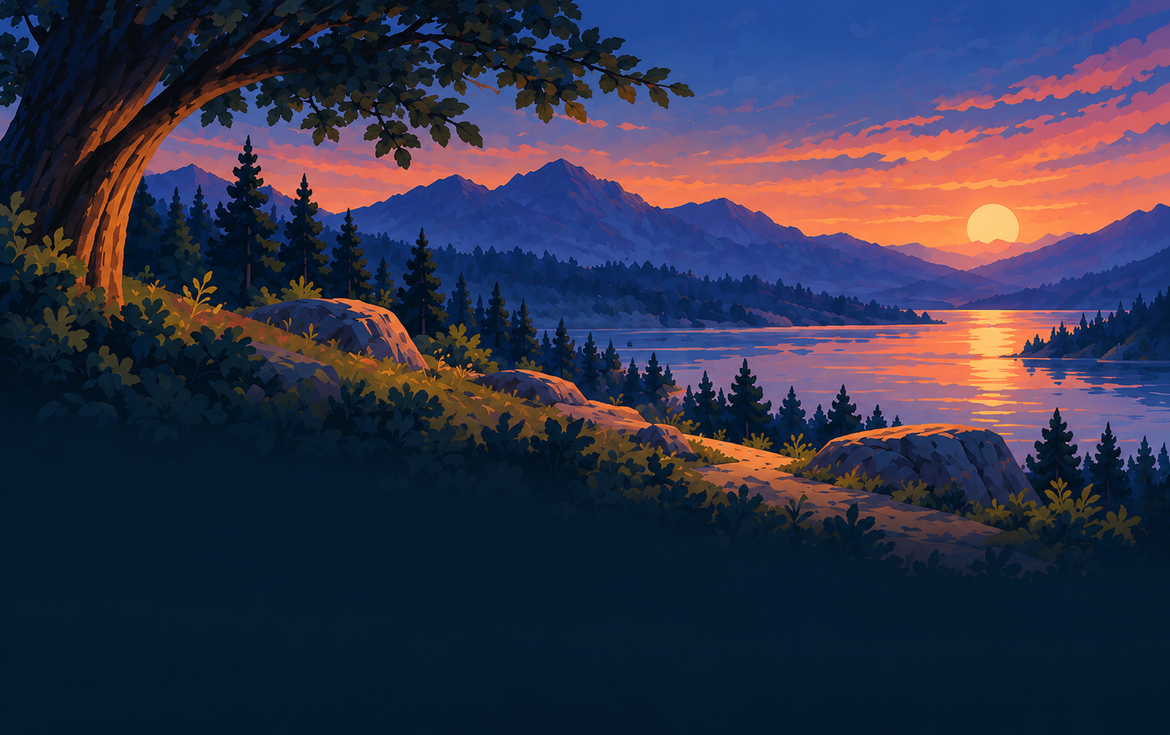
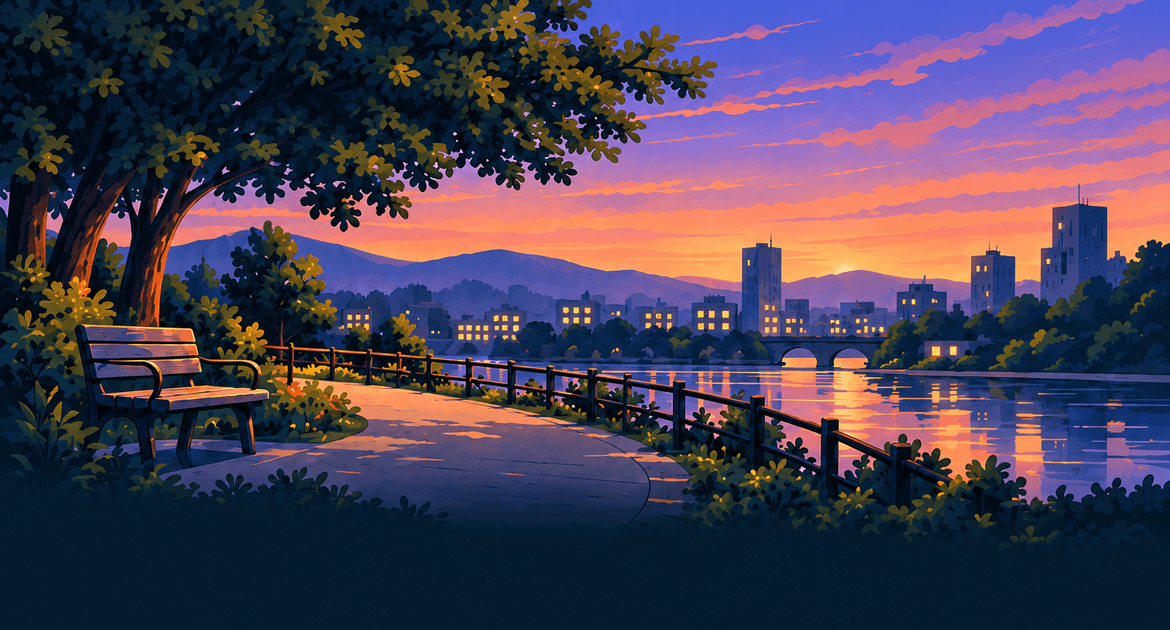
feat(mobile): apply city journal visuals
Authorship: agent-codex

diff --git a/apps/mobile/src/features/quests/quest-card.tsx b/apps/mobile/src/features/quests/quest-card.tsx
@@ -1,6 +1,6 @@
-import { Image, Text, View } from "react-native";
+import { Text, View } from "react-native";
 import Ionicons from "@expo/vector-icons/Ionicons";
-import { journalArt } from "../../shared/journal-art";
+import { QuestCardArtwork } from "./quest-card-artwork";
 import { Link } from "expo-router";
 import { questActions } from "./commands/quest-actions";
 import {
@@ -34,11 +34,12 @@ export function QuestCard({ item }: { item: OccurrenceView }) {
   return (
     <Card
       style={{
-        borderColor: creative ? "#9274B9" : colors.line,
-        gap: 6,
-        padding: 12,
+        borderColor: creative ? "#9274B9" : colors.gold,
+        gap: 8,
+        padding: 16,
       }}
     >
+      <QuestCardArtwork creative={creative} />
       <View
         style={{
           flexDirection: "row",
@@ -79,7 +80,7 @@ export function QuestCard({ item }: { item: OccurrenceView }) {
         {q.title}
       </Text>
       <View style={{ flexDirection: "row", gap: 8, alignItems: "center" }}>
-        <View style={{ flex: 1, gap: 8 }}>
+        <View style={{ flex: 1, gap: 10, minHeight: 62 }}>
           <Text
             style={[
               styles.muted,
@@ -98,12 +99,6 @@ export function QuestCard({ item }: { item: OccurrenceView }) {
               : ""}
           </Text>
         </View>
-        <Image
-          source={creative ? journalArt.sketchbook : journalArt.work}
-          accessible={false}
-          resizeMode="contain"
-          style={{ width: 80, height: 52 }}
-        />
       </View>
       {item.pendingCompletion && (
         <View
@@ -112,6 +107,7 @@ export function QuestCard({ item }: { item: OccurrenceView }) {
             borderColor: colors.line,
             borderRadius: 10,
             padding: 10,
+            backgroundColor: colors.card,
           }}
         >
           <Label style={styles.muted}>
@@ -133,19 +129,20 @@ export function QuestCard({ item }: { item: OccurrenceView }) {
             borderTopWidth: 1,
             borderTopColor: colors.line,
             fontWeight: "600",
+            backgroundColor: "rgba(9, 26, 41, 0.85)",
           },
         ]}
       >
         View quest & rewards
       </Link>
       {item.occurrence.lifecycle?.lockedLoss != null && (
-        <Label>
+        <Label style={{ backgroundColor: colors.card }}>
           Accepted loss: up to {item.occurrence.lifecycle.lockedLoss} category
           XP.
         </Label>
       )}
       {item.status === "Frozen" && (
-        <Label>
+        <Label style={{ backgroundColor: colors.card }}>
           Frozen: resume its category/account pause first. Stopped-series
           commitments can then be resumed in quest details.
         </Label>

diff --git a/apps/mobile/src/shared/journal-heading.tsx b/apps/mobile/src/shared/journal-heading.tsx
@@ -1,6 +1,7 @@
 import { ImageBackground, Text, View } from "react-native";
 import { useSafeAreaInsets } from "react-native-safe-area-context";
 import Ionicons from "@expo/vector-icons/Ionicons";
+import { Link } from "expo-router";
 import { journalArt } from "./journal-art";
 import { colors, styles } from "./ui";
 
@@ -8,7 +9,8 @@ import { colors, styles } from "./ui";
 export function JournalHeading({
   title,
   description,
-}: Readonly<{ title: string; description?: string }>) {
+  compact = false,
+}: Readonly<{ title: string; description?: string; compact?: boolean }>) {
   const insets = useSafeAreaInsets();
   return (
     <ImageBackground
@@ -18,10 +20,10 @@ export function JournalHeading({
       imageStyle={{ width: "100%", height: "100%" }}
       style={{
         marginHorizontal: -16,
-        paddingHorizontal: 26,
+        paddingHorizontal: 24,
         paddingTop: insets.top + 16,
         paddingBottom: 12,
-        minHeight: 200 + insets.top,
+        minHeight: (compact ? 178 : 220) + insets.top,
         justifyContent: "space-between",
       }}
     >
@@ -31,12 +33,30 @@ export function JournalHeading({
           size={32}
           color={colors.gold}
           accessible={false}
+          aria-hidden
         />
-        <Text style={[styles.subtitle, { fontSize: 24, flexShrink: 1 }]}>
+        <Text style={[styles.subtitle, { fontSize: 24, flex: 1 }]}>
           Pocket Quests
         </Text>
+        <Link
+          href="/(tabs)/profile"
+          accessibilityLabel="Settings and profile"
+          style={{
+            padding: 10,
+            minWidth: 48,
+            minHeight: 48,
+            color: colors.ink,
+          }}
+        >
+          <Ionicons
+            name="settings-outline"
+            size={26}
+            accessible={false}
+            aria-hidden
+          />
+        </Link>
       </View>
-      <View style={{ gap: 6, paddingTop: 78 }}>
+      <View style={{ gap: 6, paddingTop: compact ? 42 : 64 }}>
         <Text accessibilityRole="header" style={styles.title}>
           {title}
         </Text>

diff --git a/apps/mobile/src/features/quests/quest-board.tsx b/apps/mobile/src/features/quests/quest-board.tsx
@@ -1,8 +1,6 @@
 import { Page } from "../../session/session-page";
 import { QuestHistory, type QuestHistorySection } from "./quest-history";
 import { useMemo, useState } from "react";
-import { ThemeProvider } from "@honeydrunk/ui-native";
-import { pocketQuestsTheme } from "../../shared/theme";
 import { JournalHeading } from "../../shared/journal-heading";
 import { useAccountSnapshot } from "../../session/session";
 import { Button, Label } from "../../shared/ui";
@@ -24,13 +22,13 @@ export function QuestBoard() {
   );
   if (!state)
     return (
-      <Page header={<JournalHeading title="Your quests" />}>
+      <Page header={<JournalHeading title="Your quests" compact />}>
         <Label>Loading your quests.</Label>
       </Page>
     );
   if (state && !state.profile.onboardingComplete)
     return (
-      <Page header={<JournalHeading title="Your quests" />}>
+      <Page header={<JournalHeading title="Your quests" compact />}>
         <ProfileEditor />
       </Page>
     );
@@ -74,7 +72,7 @@ export function QuestBoard() {
   return (
     <QuestHistory
       sections={sections}
-      header={<JournalHeading title="Your quests" />}
+      header={<JournalHeading title="Your quests" compact />}
     >
       <QuestViewTabs<BoardView>
         options={boardViews}
@@ -103,21 +101,10 @@ export function QuestBoard() {
               onPress={() => setShowPast((shown) => !shown)}
             />
           )}
-          <ThemeProvider
-            theme={{
-              ...pocketQuestsTheme,
-              colors: {
-                ...pocketQuestsTheme.colors,
-                primary: "#F8794D",
-                onPrimary: "#172332",
-              },
-            }}
-          >
-            <Button
-              title="Choose another quest"
-              onPress={() => setSection("Available")}
-            />
-          </ThemeProvider>
+          <Button
+            title="Choose another quest"
+            onPress={() => setSection("Available")}
+          />
         </>
       )}
       {section !== "Available" && items.length === 0 && (

diff --git a/apps/mobile/src/features/quests/quest-card-artwork.tsx b/apps/mobile/src/features/quests/quest-card-artwork.tsx
@@ -1,0 +1,36 @@
+import { Image, View } from "react-native";
+import { journalArt } from "../../shared/journal-art";
+
+/** Bundled decorative scenery stays behind live labels, statuses and controls. */
+export function QuestCardArtwork({
+  creative,
+}: Readonly<{ creative: boolean }>) {
+  return (
+    <View
+      pointerEvents="none"
+      style={{
+        position: "absolute",
+        top: 0,
+        bottom: 0,
+        left: 0,
+        right: 0,
+        overflow: "hidden",
+        borderRadius: 14,
+      }}
+    >
+      <Image
+        testID="journal-quest-artwork"
+        source={creative ? journalArt.sketchScene : journalArt.workScene}
+        accessible={false}
+        aria-hidden
+        resizeMode="cover"
+        style={{
+          position: "absolute",
+          bottom: 0,
+          width: "100%",
+          aspectRatio: 2,
+        }}
+      />
+    </View>
+  );
+}

diff --git a/apps/mobile/src/features/progression/character-home.tsx b/apps/mobile/src/features/progression/character-home.tsx
@@ -2,7 +2,7 @@ import { Page } from "../../session/session-page";
 import { Text, View } from "react-native";
 import { Redirect } from "expo-router";
 import { useAccountSnapshot } from "../../session/session";
-import { Label, Card, styles } from "../../shared/ui";
+import { Label, Card, colors, styles } from "../../shared/ui";
 import { JournalHeading } from "../../shared/journal-heading";
 import { ProgressRow, CategoryProgress } from "./character-tracks";
 import { RankProgress } from "./rank-progress";
@@ -32,7 +32,10 @@ export function CharacterHome() {
         />
       }
     >
-      <Card testID="character-sheet" style={{ gap: 12, padding: 12 }}>
+      <Card
+        testID="character-sheet"
+        style={{ gap: 12, padding: 12, borderColor: colors.gold }}
+      >
         <View
           style={{
             flexDirection: "row",

diff --git a/apps/mobile/src/shared/journal-art.ts b/apps/mobile/src/shared/journal-art.ts
@@ -6,5 +6,7 @@ export const journalArt = {
   books: require("../../assets/journal/books.png"),
   sketchbook: require("../../assets/journal/sketchbook.png"),
   work: require("../../assets/journal/work.png"),
+  workScene: require("../../assets/journal/work-scene.png"),
+  sketchScene: require("../../assets/journal/sketch-scene.png"),
   shield: require("../../assets/journal/rank-shield.png"),
 };

diff --git a/apps/mobile/assets/journal/README.md b/apps/mobile/assets/journal/README.md
@@ -2,16 +2,19 @@
 
 Approved Pocket Quests adventure-journal direction, October 18, 2026. Generated with OpenAI Image Gen using the approved Home and quest-card mockups as references. These are decorative bundled assets; no account data, UI labels, progress or controls are baked into them.
 
-- landscape.png: dusk lake, shared scrolling header and subdued rank background.
+- landscape.png: contemporary riverside bench and city at dusk, shared scrolling header and subdued rank background.
 - traveler.png: illustrative character portrait, not a user photo.
 - compass.png, books.png, sketchbook.png: category/attribute/skill artwork.
-- work.png and sketchbook.png: quest-card spot illustrations.
+- work-scene.png and sketch-scene.png: wide illustrated quest-card scenes with dark space for live content.
+- work.png: retained original work spot illustration; sketchbook.png remains the Skills artwork.
 - rank-shield.png: blank shield; the current rank is native text.
 
 Libre Baskerville is bundled separately under ../fonts with its SIL Open Font License. The Ionicons font is supplied by the SDK-compatible @expo/vector-icons package. Font loading uses expo-font at runtime; it was already present transitively in the existing SDK. No config-plugin or provider change is required for runtime loading.
 
-Runtime PNGs are resampled from the approved originals into Metro's 1x, 2x and 3x density variants. The imports keep the unsuffixed filenames; Metro selects the appropriate density. Base dimensions are 390x245 for the landscape, 112x112 for the portrait, 80x100 for the shield, 80x80 for books/compass, and 80x67 for sketchbook/work. All density variants have exactly proportional dimensions. The larger landscape supports the full-width header; spot art remains sized for the 72x48 and 80x52 controls.
+Runtime PNGs are resampled from the approved originals into Metro's 1x, 2x and 3x density variants. The imports keep the unsuffixed filenames; Metro selects the appropriate density. Base dimensions are 390x210 for the landscape, 112x112 for the portrait, 360x180 for card scenes, 80x100 for the shield, 80x80 for books/compass, and 80x67 for sketchbook/work. All density variants have exactly proportional dimensions. The landscape fills the header behind both the title and settings gear. Card art preserves its 2:1 aspect ratio at the bottom of dynamically sized cards.
 
-The originals remain recoverable from Git commit `8fee082f129d7c712d01e3bf78864f5ebc7d17c7`; they are no longer bundled. Production variants were exported with Sharp's Lanczos3 resampling and PNG compression level 9, retaining alpha and the approved composition. The total raster payload, including every density, fell from 12,340,827 to 3,373,561 bytes (73% smaller). At 3x, decoded RGBA pixel storage is at most 0.43 MiB for the portrait, 0.28 MiB for the shield and 0.22 MiB for each spot illustration, compared with roughly 6 MiB per original. These are pixel-buffer estimates, not measured device memory.
+The first journal originals remain recoverable from Git commit `8fee082f129d7c712d01e3bf78864f5ebc7d17c7`; they are no longer bundled. The approved city revision uses Image Gen reference-guided assets, with source SHA-256 hashes, runtime dimensions and byte sizes in [the city asset manifest](../../../../docs/design/city-journal-20261018/asset-manifest.json). Card edit prompts are retained beside the manifest. Landscape generation requested clean editorial bench/river/city scenery, canopy and dark navy fade; portrait generation requested an everyday traveler in a navy jacket with the same city palette. Neither contains UI text.
+
+The city assets use Sharp Lanczos3 resizing and PNG compression level 9 with a 256-color palette. The complete journal raster set now has 27 files totaling 2,218,230 bytes, versus 3,373,561 before this revision, despite adding two card scenes. At 3x, decoded RGBA storage is approximately 2.81 MiB for the header, 2.22 MiB per card scene and 0.43 MiB for the portrait. These are pixel-buffer estimates, not measured device memory. Reference and QA images under docs are not runtime imports.
 
 Native memory/scrolling, text scaling and screen-reader acceptance remain deferred device checks before release. Browser and bundle checks do not establish native performance.

diff --git a/docs/design/city-journal-20261018/README.md b/docs/design/city-journal-20261018/README.md
@@ -1,0 +1,27 @@
+# City journal visual QA
+
+final result: passed
+
+Approved scope: blend the original rich navy/ivory/gold adventure journal and illustrated quest cards with contemporary bench/river/city scenery. The illustration extends to the top behind Pocket Quests and the settings gear. This approval authorizes Pocket Quests product styling; shared HoneyDrunk.UI ownership remains unchanged.
+
+## Comparison evidence
+
+The `home-comparison.png` and `quests-comparison.png` composites show the approved mockup on the left and implemented production components on the right, both at 390x844. Reference images were normalized from 853x1844. Implemented captures use the real bundled font, assets and components with a synthetic local session/router adapter outside production source. They are visual evidence, not API, device or provider acceptance. `pending-320.png` verifies a narrow, scrolled pending card.
+
+Typography retains Libre Baskerville headings and native body/control fonts. Rich navy, ivory and gold remain; the chooser now uses the shared gold primary token and Creativity retains purple. City artwork fills the full header, and card scenes sit behind live text with protected action/warning backgrounds. Controls retain their existing minimum sizes, copy and dynamic heights. No sample balances or UI labels are rasterized or persisted.
+
+## Review and corrections
+
+- P2 resolved: the first generated card scene placed bright objects behind long titles. Revised art reserves dark space for labels and anchors the smaller vignette to the right.
+- P2 resolved: narrow pending-card action text crossed bright sketchbook details. Added a dark action background; pending, frozen and accepted-loss text also retain a solid readable surface.
+- Preserved proportional card artwork rather than stretching it with variable card height. Decorative art has no pointer events and is excluded from accessibility.
+- Checked Home/Quests navigation, Active selection, narrow wrapping and the full pending warning. The real browser journey now navigates through the header gear to exercise its Expo route and accessibility name.
+- Explicit defect-first author review covered navigation, layering, safe-area behavior, live metadata, pending/Undo paths, asset density/payload, shared UI boundaries and unchanged API/session contracts. No remaining actionable P0/P1/P2 finding in this scope.
+
+## Deliberate differences and limits
+
+The app keeps its actual date/account-zone guidance, full warnings, 48-pixel actions and dynamic content. These need more space than fixed mockup content, so the second card requires scrolling. At narrow widths the brand/title may wrap. Art is a clean stylistic adaptation rather than a pixel-identical illustration. Existing rank/path assets are retained.
+
+TypeScript, lint, architecture, UI/API snapshot and security-patch checks plus the 303-test component suite passed during implementation. Web/Android/iOS exports passed. Exact-head browser/API/SQL evidence is recorded separately by the existing CI harness and the PR. Native safe areas, dynamic type, screen readers, scrolling/memory and live provider login remain deferred founder/device acceptance. Sign-in provider branding is a separate next step.
+
+Asset provenance and size details are in [the runtime artwork README](../../../apps/mobile/assets/journal/README.md) and `asset-manifest.json`. Earlier lake-style approval and PR #28 evidence remain in `../journal-20261018` and the historical portion of root `design-qa.md`.

diff --git a/design-qa.md b/design-qa.md
@@ -1,5 +1,7 @@
 # Illustrated journal visual QA — October 18, 2026
 
+Current approved city revision: [city journal visual QA](docs/design/city-journal-20261018/README.md), including same-viewport reference/implementation comparisons and narrow pending-card evidence. The remainder of this file records the earlier lake-style implementation and PR #28 follow-up; it is retained as historical evidence.
+
 final result: passed
 
 Scope: the approved Home, active quest cards, shared typography/palette and navigation. This is a visual/component gate, not native-device, authentication-provider or production acceptance.
